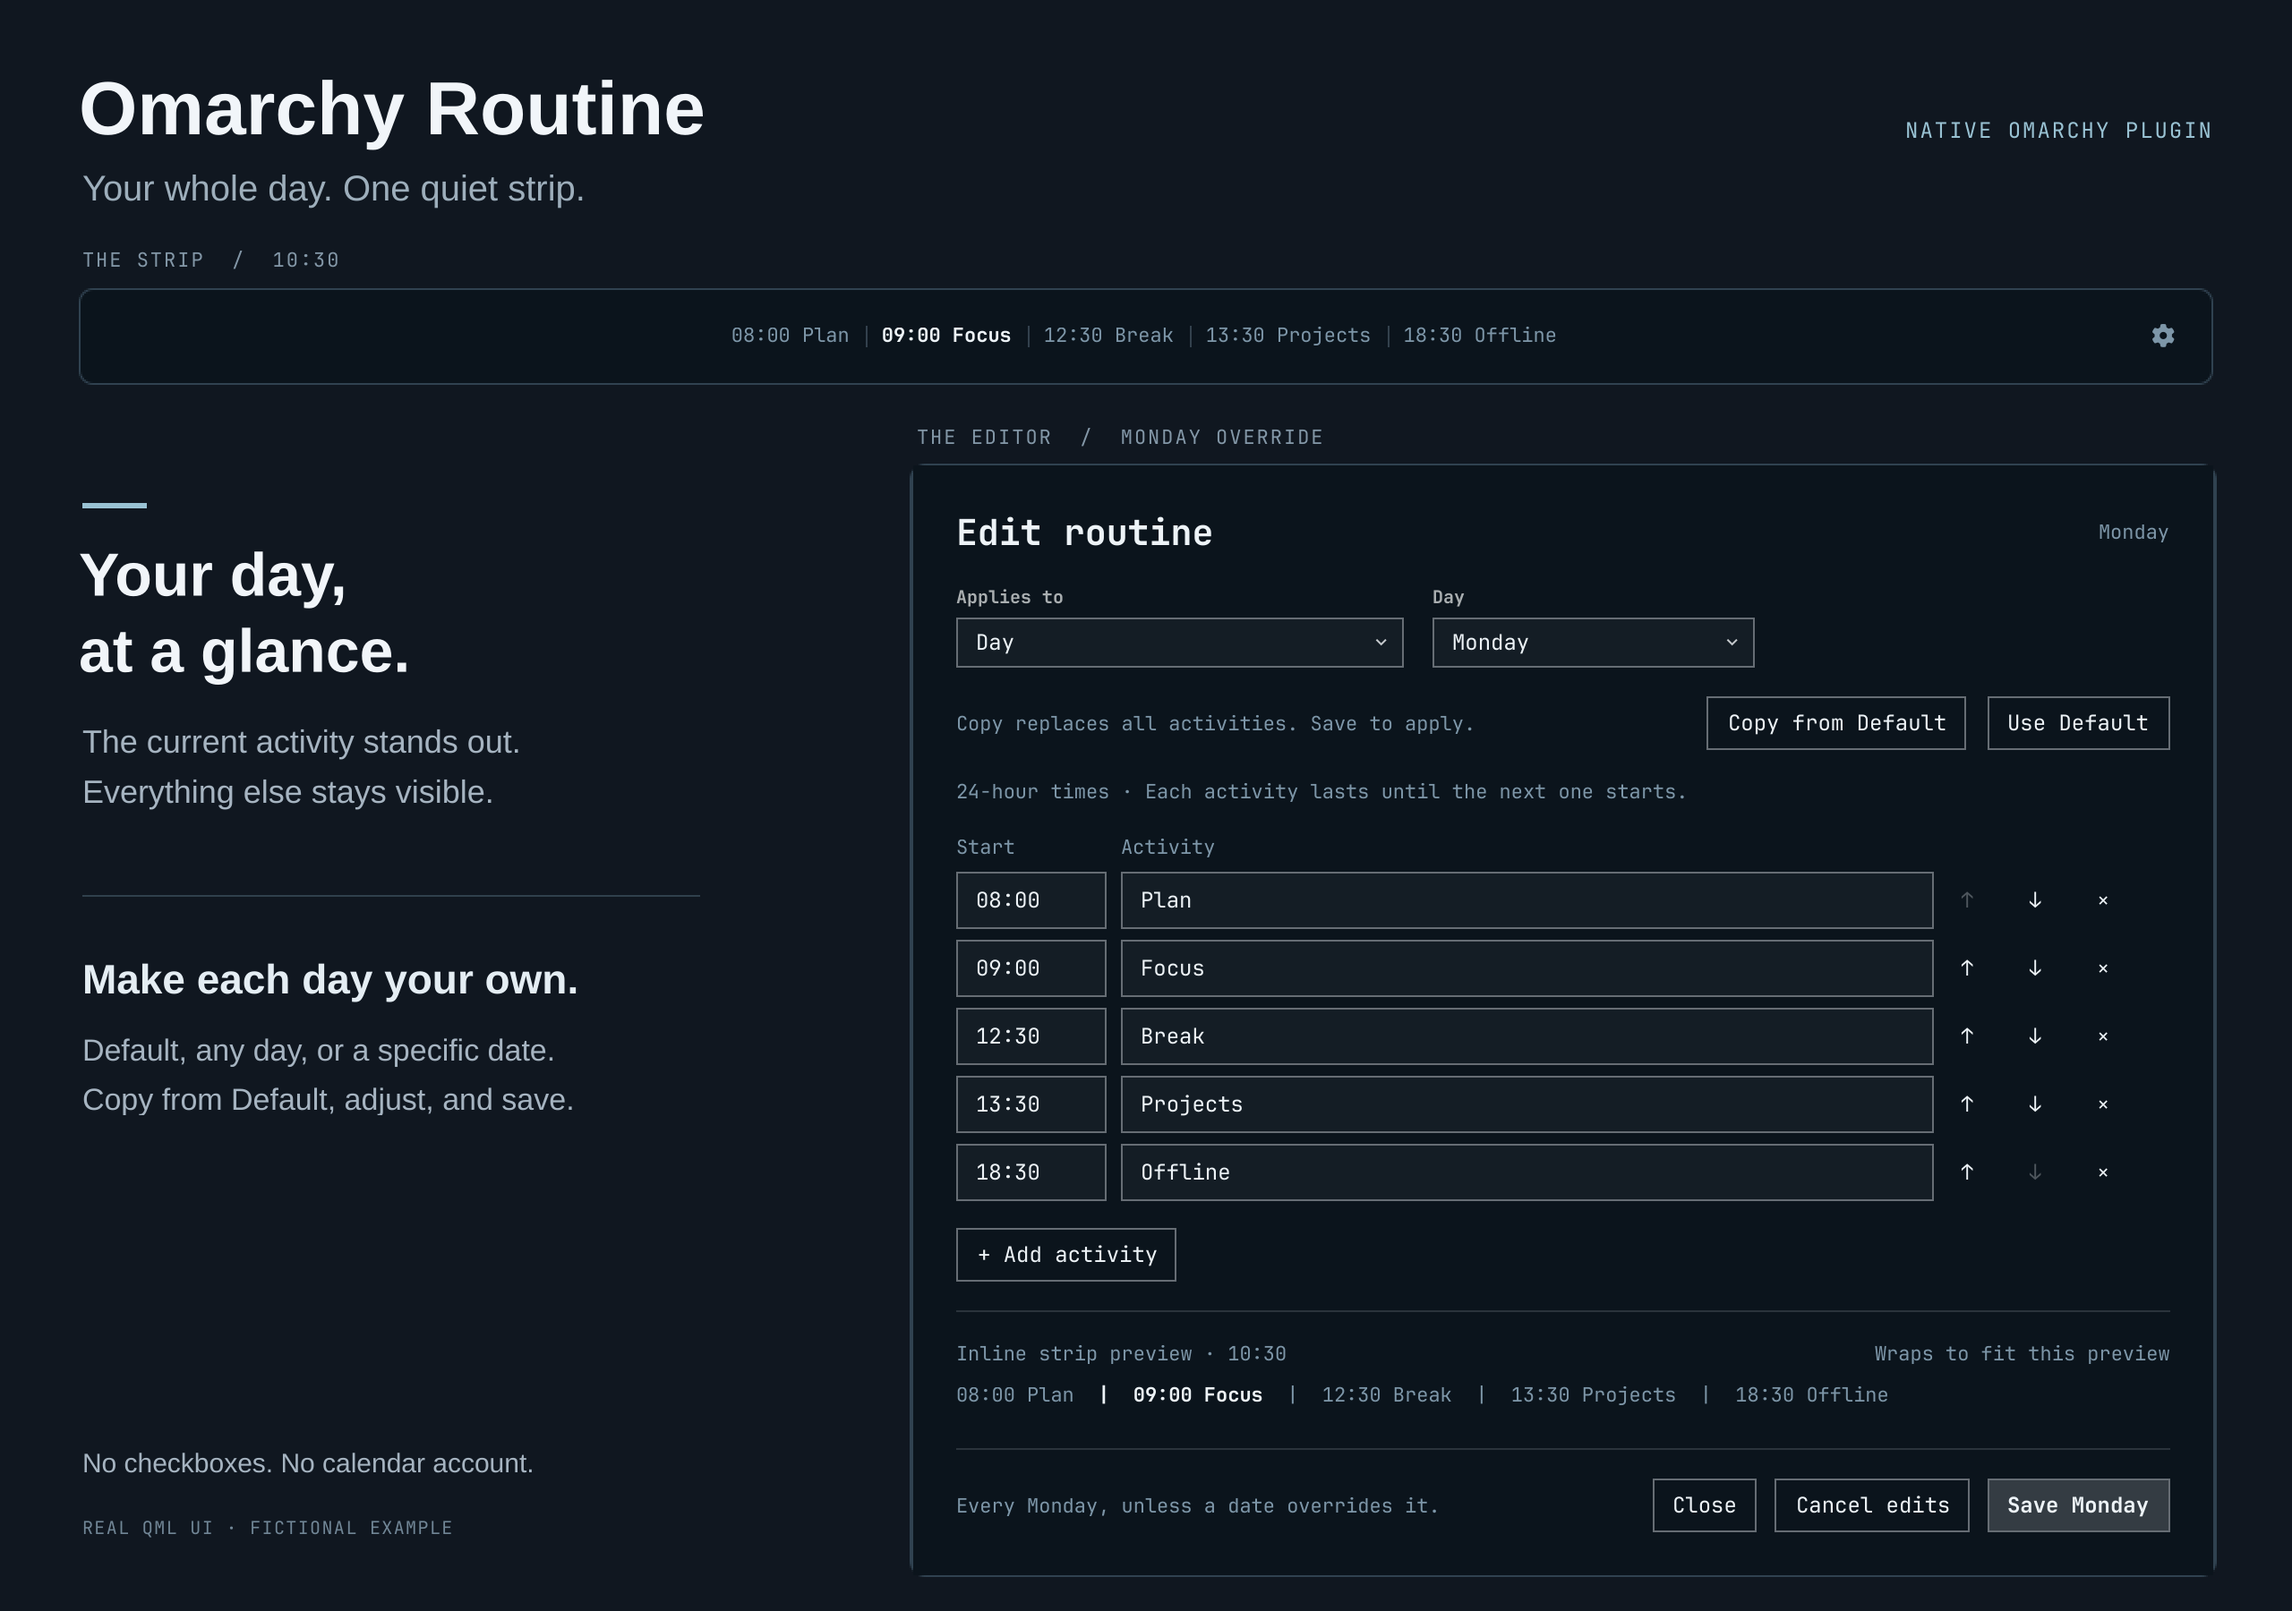
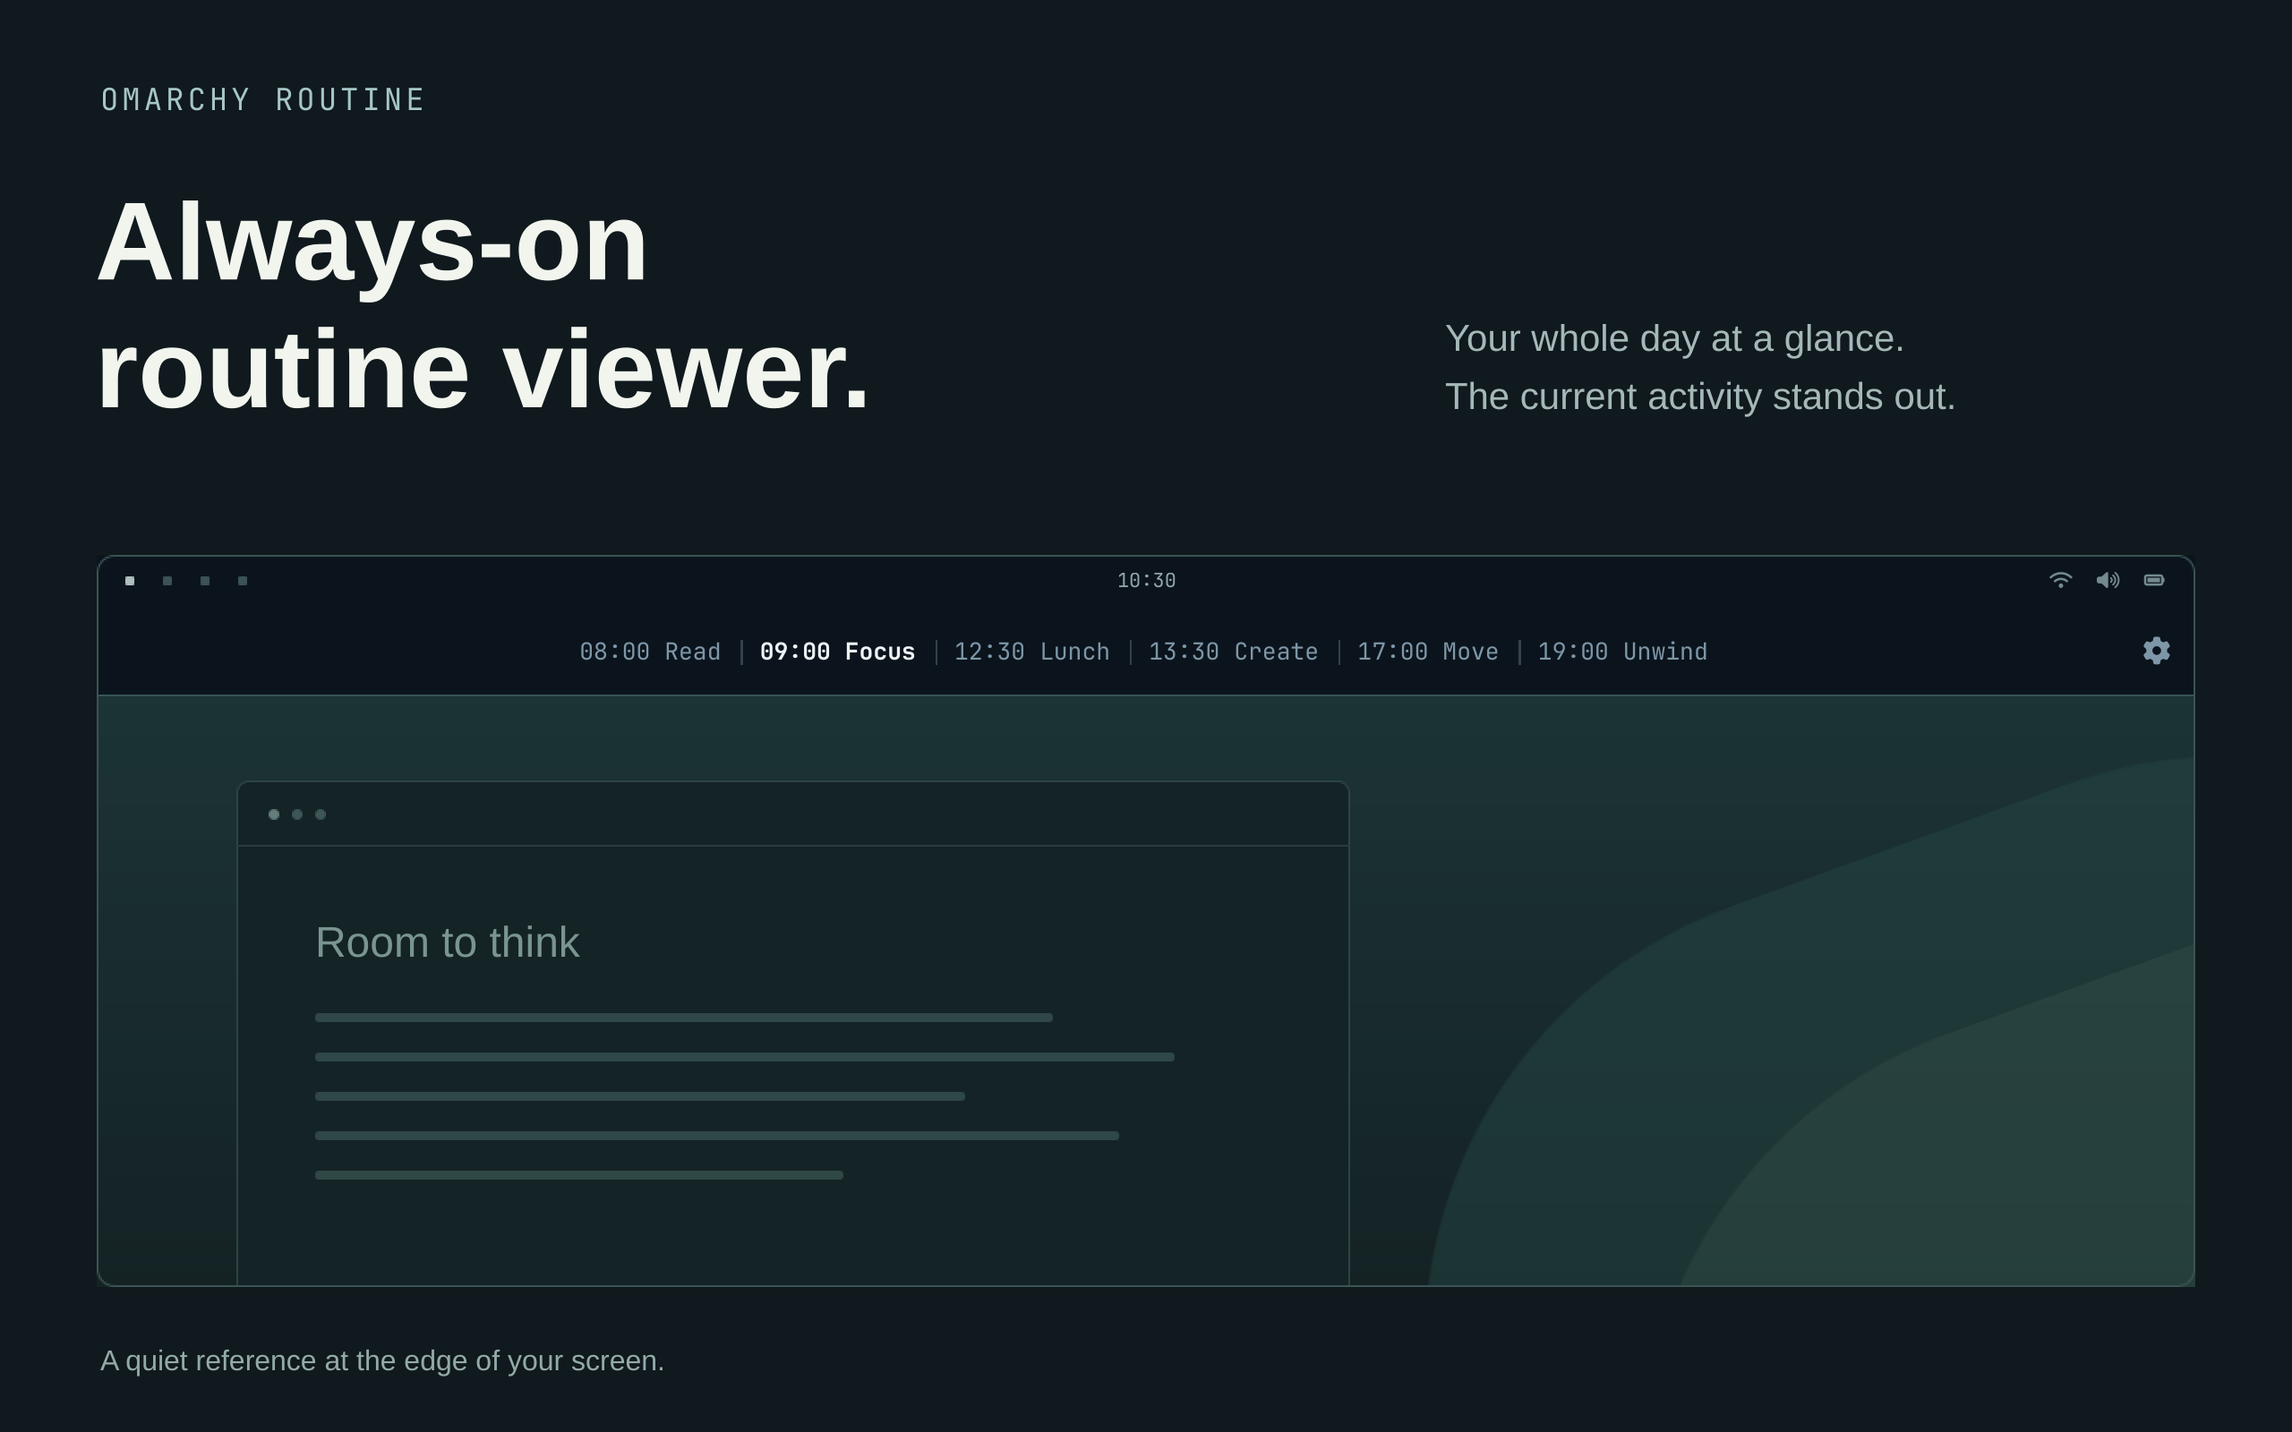
Present Omarchy Routine as an always-on viewer

diff --git a/README.md b/README.md
@@ -1,13 +1,16 @@
 # Omarchy Routine
 
-A daily reference strip for the Omarchy desktop. The current activity uses the
-theme's primary text color; the rest stay muted. Each row is centered on the
-screen. A settings cog at the far right opens the editor; hovering does not open
-a popup. There are no completion checkboxes, accounts, or calendar services.
+An always-on routine viewer for the Omarchy desktop. Your whole day's routine
+stays in a thin strip beside the desktop bar while you work. The current activity
+uses the theme's primary text color; the rest stay muted. The highlight follows
+the time automatically, so you can glance at your routine and carry on.
 
-![Omarchy Routine showing the current activity and a Monday routine editor](preview.png)
+![Omarchy Routine displaying the whole day beside the desktop bar, with the current activity highlighted](preview.png)
 
-*Native QML preview with a fictional example routine.*
+*Native routine strip with a fictional example routine and illustrative desktop.*
+
+Each row is centered on the screen. A settings cog at the far right opens the
+editor. There are no completion checkboxes, accounts, or calendar services.
 
 The plugin runs entirely inside Omarchy's existing Quickshell process. Its QML
 components import `RoutineLogic.js` through Qt's built-in JavaScript engine, the
